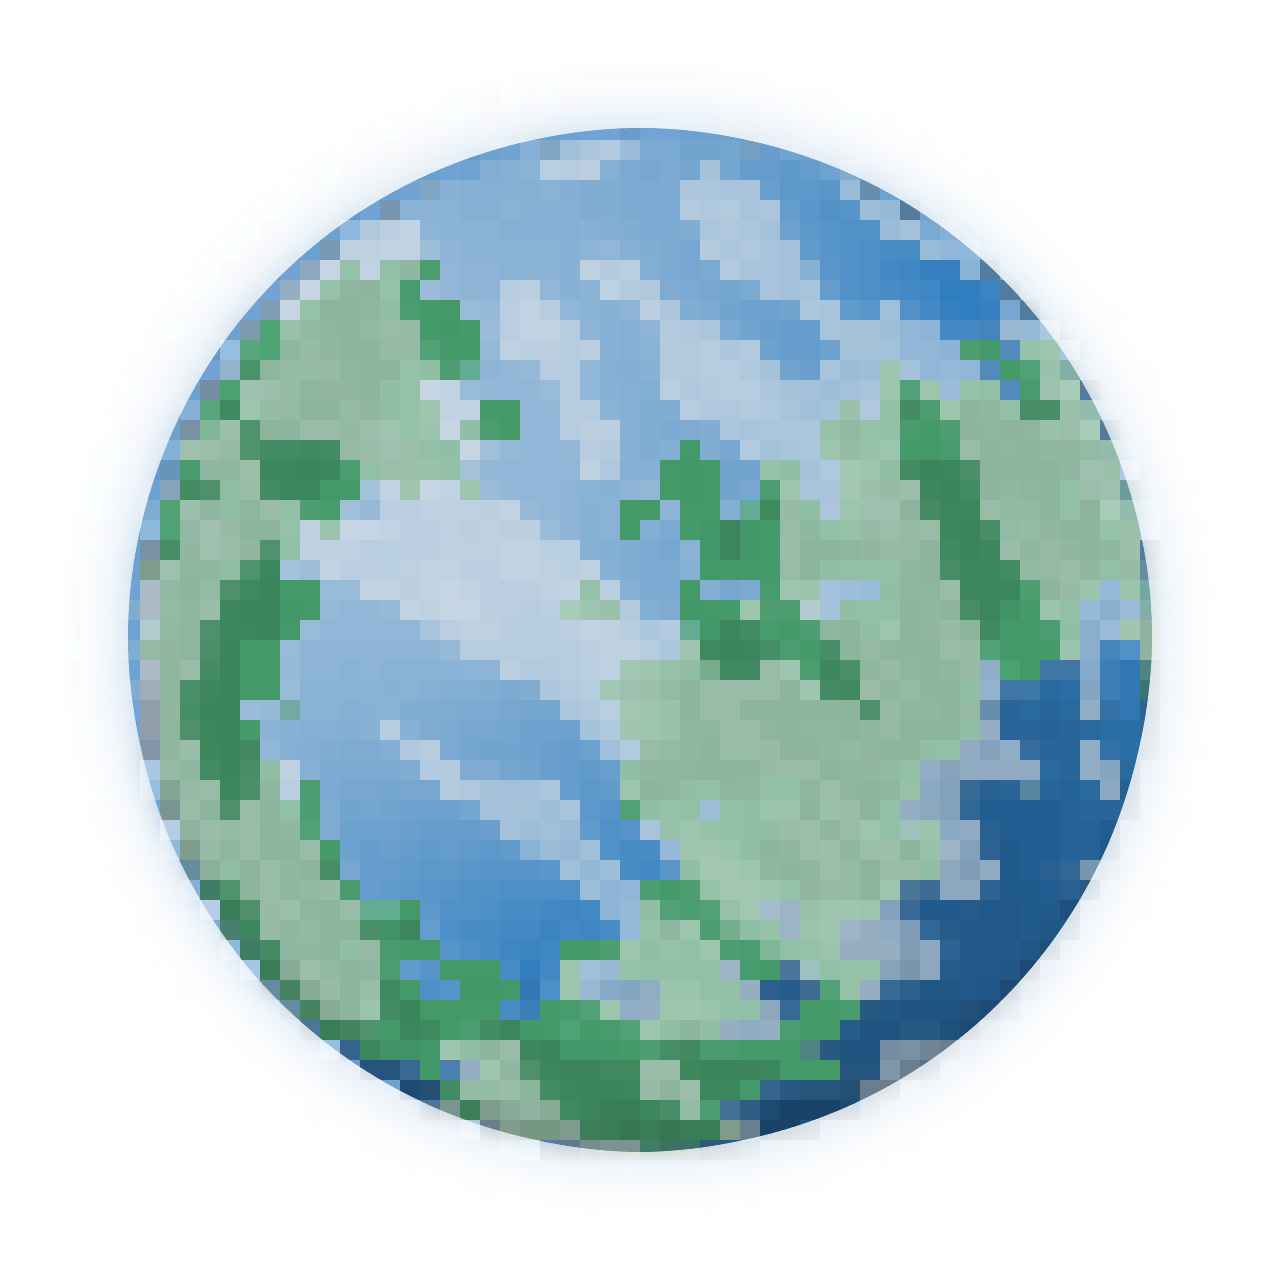
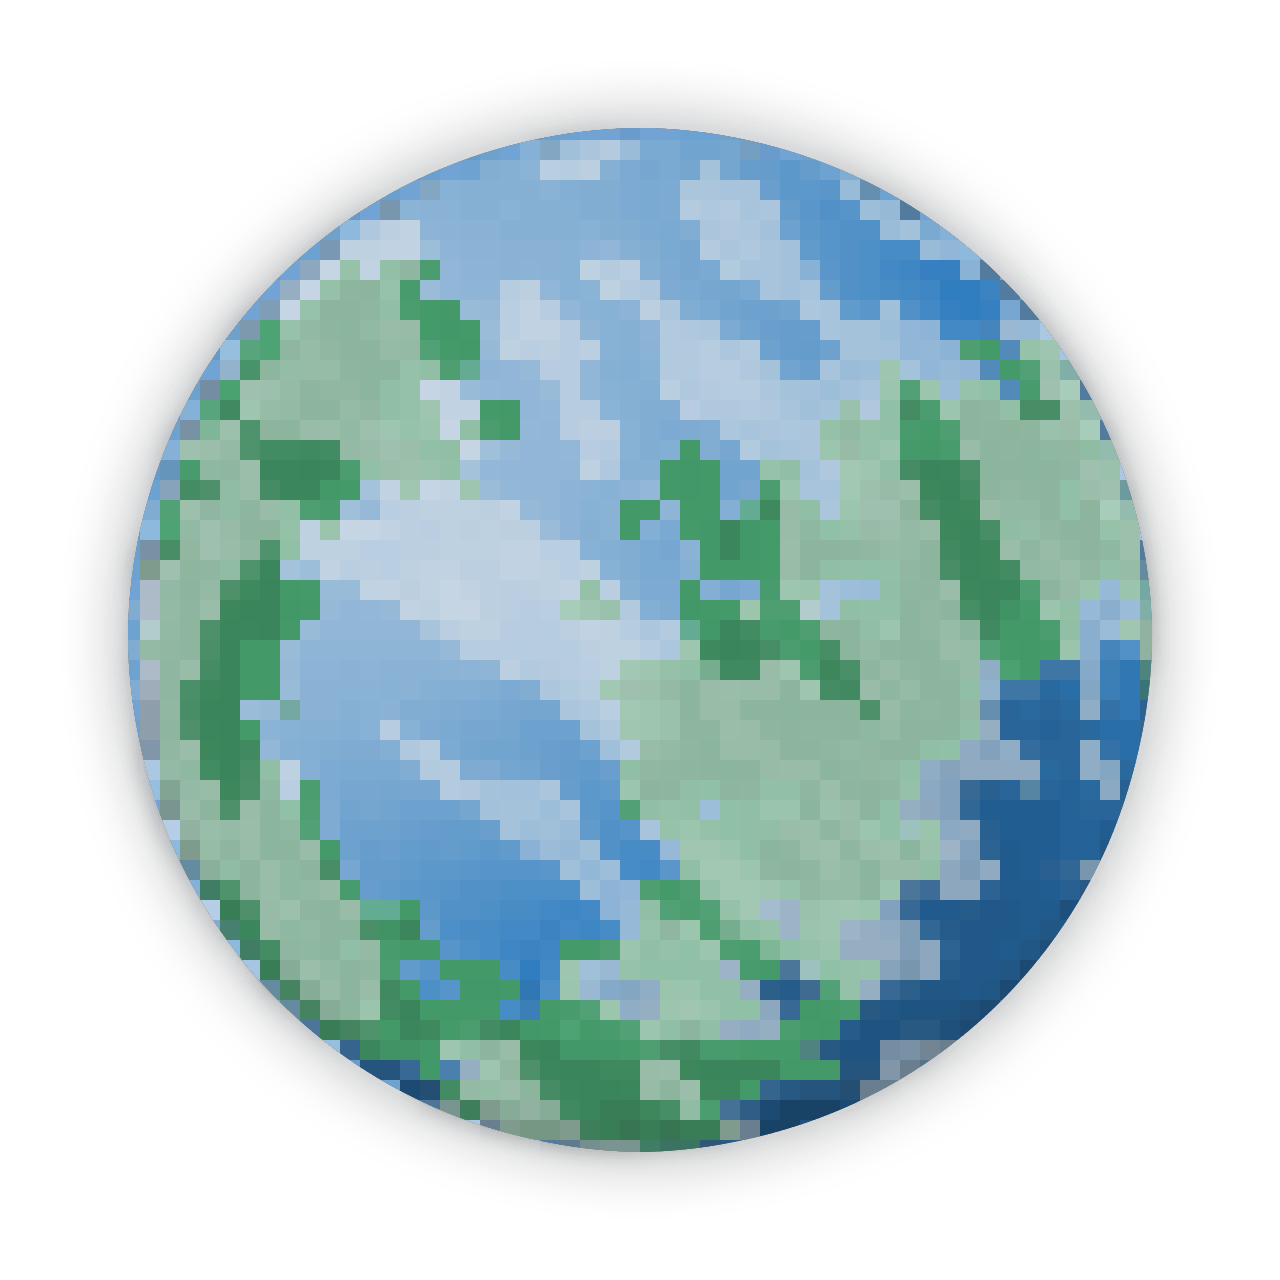
example of smoother pixels
1) custom fragment shader - minor modifications from raylib default shader
2) textures use bilinear filter
3) alpha in textures is premultiplied

diff --git a/main.c b/main.c
@@ -1,5 +1,6 @@
 #include "raylib.h"
 #include "raymath.h"
+#include "rlgl.h"
 
 #define STB_PERLIN_IMPLEMENTATION
 #include "vendor/stb_perlin.h"
@@ -52,6 +53,45 @@ bool is_out_of_bounds(Vector2 position) {
   return false;
 }
 
+// these are from rlLoadShaderDefault() function with minor modifications
+
+const char* vsShader =
+    "#version 330                       \n"
+    "in vec3 vertexPosition;            \n"
+    "in vec2 vertexTexCoord;            \n"
+    "in vec4 vertexColor;               \n"
+    "out vec2 fragTexCoord;             \n"
+    "out vec4 fragColor;                \n"
+    "uniform mat4 mvp;                  \n"
+    "void main()                        \n"
+    "{                                  \n"
+    "    fragTexCoord = vertexTexCoord; \n"
+    "    fragColor = vertexColor;       \n"
+    "    gl_Position = mvp*vec4(vertexPosition, 1.0); \n"
+    "}                                  \n";
+;
+
+const char* fsShader =
+    "#version 330       \n"
+    "in vec2 fragTexCoord;              \n"
+    "in vec4 fragColor;                 \n"
+    "out vec4 finalColor;               \n"
+    "uniform sampler2D texture0;        \n"
+    "uniform vec4 colDiffuse;           \n"
+    "void main()                        \n"
+    "{                                  \n"
+    "    vec2 uv = fragTexCoord;                                    \n"
+    "    vec2 texsize = vec2(textureSize(texture0,0));              \n"
+    "    vec2 uv_texspace = uv*texsize;                             \n"
+    "    vec2 seam = floor(uv_texspace+.5);                         \n"
+    "    uv_texspace = (uv_texspace-seam)/fwidth(uv_texspace)+seam; \n"
+    "    uv_texspace = clamp(uv_texspace, seam-.5, seam+.5);        \n"
+    "    uv = uv_texspace/texsize;                                  \n"
+    "    vec4 texelColor = texture(texture0, uv);                   \n"
+    "    finalColor = texelColor*colDiffuse*fragColor;              \n"
+    "}                                  \n";
+;
+
 int main() {
   SetTraceLogLevel(LOG_WARNING);
   InitWindow(screen_width, screen_height, game_title);
@@ -77,6 +117,8 @@ int main() {
   init_planet();
   init_bullets();
   init_ship();
+
+  Shader shader = LoadShaderFromMemory(vsShader, fsShader);
 
   float slowmotion_timer = 0;
 
@@ -239,6 +281,9 @@ int main() {
     ClearBackground(BLACK);
     BeginMode2D(camera);
 
+    BeginShaderMode(shader);
+    BeginBlendMode(BLEND_ALPHA_PREMULTIPLY);
+
     draw_stars();
     draw_planet();
 
@@ -247,6 +292,10 @@ int main() {
       draw_bullets();
       draw_ship();
       draw_energy();
+    }
+    EndBlendMode();
+    EndShaderMode();
+    if (game_state == playing || game_state == hit_stop) {
       draw_text(font, TextFormat("Score %d", score), (Vector2){280, 15}, WHITE);
     }
     EndMode2D();

diff --git a/src/planet.c b/src/planet.c
@@ -5,6 +5,8 @@ float gas_rotation = 0;
 void init_planet() {
   planet_texture = LoadTexture("assets/planet.png");
   planet_gas_texture = LoadTexture("assets/planet_gas.png");
+  SetTextureFilter(planet_texture, TEXTURE_FILTER_BILINEAR);
+  SetTextureFilter(planet_gas_texture, TEXTURE_FILTER_BILINEAR);
 }
 
 void update_planet(float dt) {

diff --git a/src/ship.c b/src/ship.c
@@ -16,6 +16,8 @@ void init_ship() {
   lose_sfx = LoadSound("assets/lose.wav");
   fire_texture = LoadTexture("assets/fire.png");
   ship_texture = LoadTexture("assets/ship.png");
+  SetTextureFilter(fire_texture, TEXTURE_FILTER_BILINEAR);
+  SetTextureFilter(ship_texture, TEXTURE_FILTER_BILINEAR);
   ship_position = screen_center;
 }
 

diff --git a/src/meteors.c b/src/meteors.c
@@ -24,6 +24,7 @@ Meteor meteors[total_meteors] = {};
 void init_meteors() {
   for(int i = 0; i < total_meteors_textures; i++) {
     meteors_textures[i] = LoadTexture(TextFormat("assets/meteor%d.png", i));
+    SetTextureFilter(meteors_textures[i], TEXTURE_FILTER_BILINEAR);
   }
 
   for(int i = 0; i < total_meteors; i++) {

diff --git a/src/bullets.c b/src/bullets.c
@@ -16,6 +16,7 @@ void reset_bullets();
 void init_bullets() {
   explosion_sfx = LoadSound("assets/boom.wav");
   bullet_texture = LoadTexture("assets/bullet.png");
+  SetTextureFilter(bullet_texture, TEXTURE_FILTER_BILINEAR);
   reset_bullets();
 }
 
